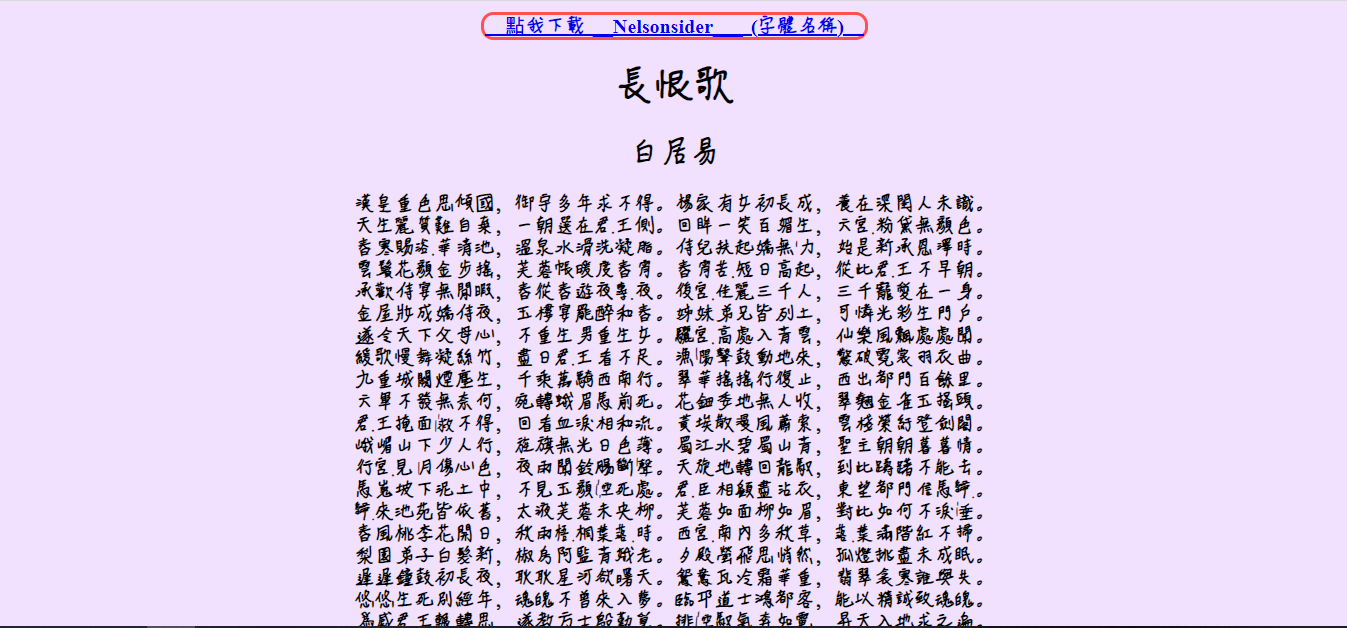
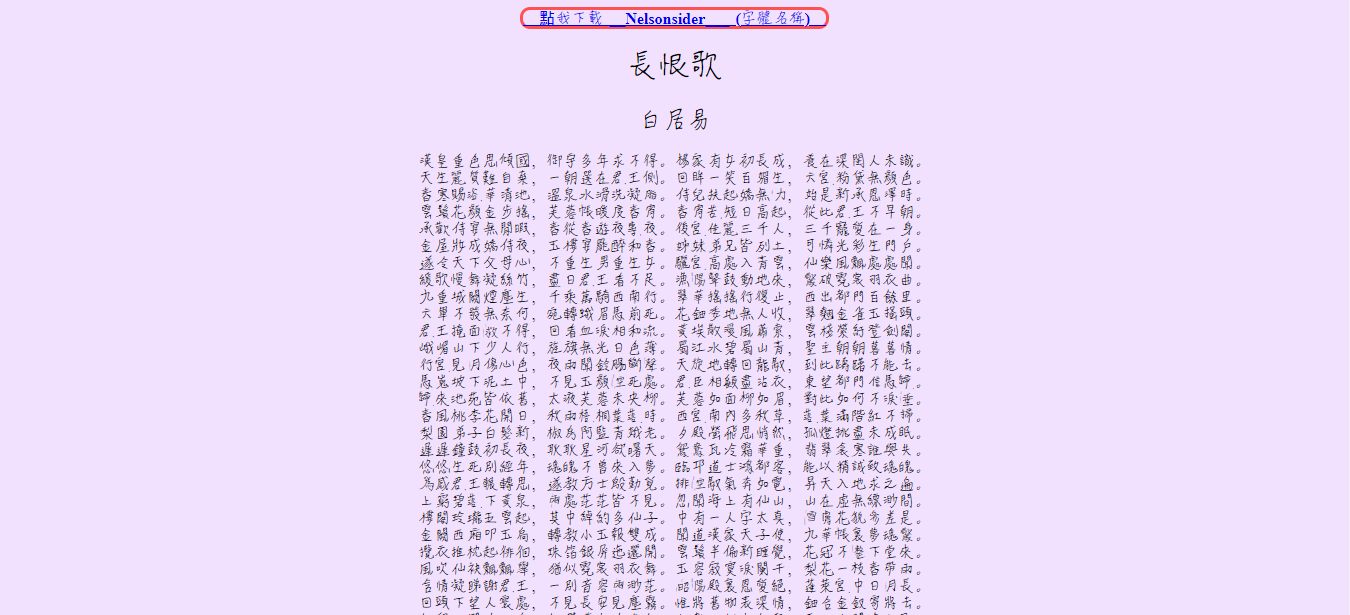
Add files via upload
update for Strong Baseline.

Changed region(s): [[0.0, 0.0, 1.0, 1.0]]

diff --git a/hw04/index.html b/hw04/index.html
@@ -11,19 +11,26 @@
 			border-radius: 10px;
 			font-size: 16px;
 		}
+
 		.main {
 			font-family: 'Nelsonsider'; /* 改成自己的 Simple & Medium Baseline 字型檔 */
   			font-weight: 900;
 		}
-		.poems {
-			font-family: 'StrongFont'; /* Strong Baseline 字型檔 */
-		}
 		@font-face {
-			font-family: MyHelvetica;
-			src: local("Nelsonsider"), url(Nelsonsider.ttf); /* 改成自己的 Simple & Medium Baseline 字型檔 */
-			src: local("StrongFont"), url(StrongFont.ttf); /*Strong Baseline 字型檔 */
+			font-family: Nelsonsider;
+			src: url(Nelsonsider.ttf);
 			font-weight: bold;
 		}
+		.poems {
+			font-family: 'StrongFont' , 'Nelsonsider'; /* Strong Baseline 字型檔 */
+		}
+		@font-face {
+			font-family: StrongFont;
+			src: url(https://github.com/Circle472/ct2022s/raw/main/hw04/StrongFont.ttf); /*Strong Baseline 字型檔 */
+			font-weight: bold;
+		}
+
+		
 		a:visited { color: #0000EE; }
 		a:hover { color: #FF5151; }
 		* {
